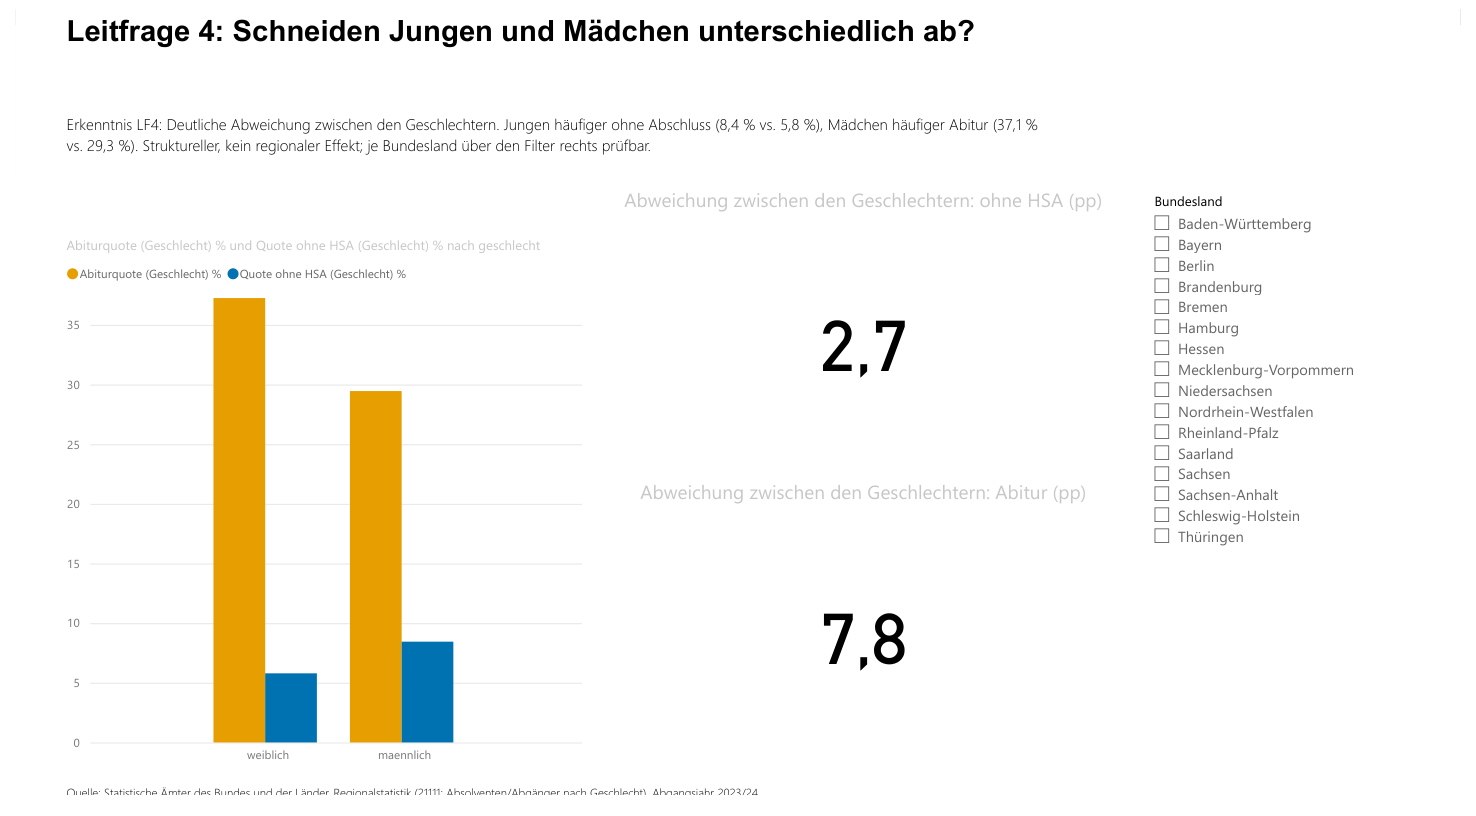
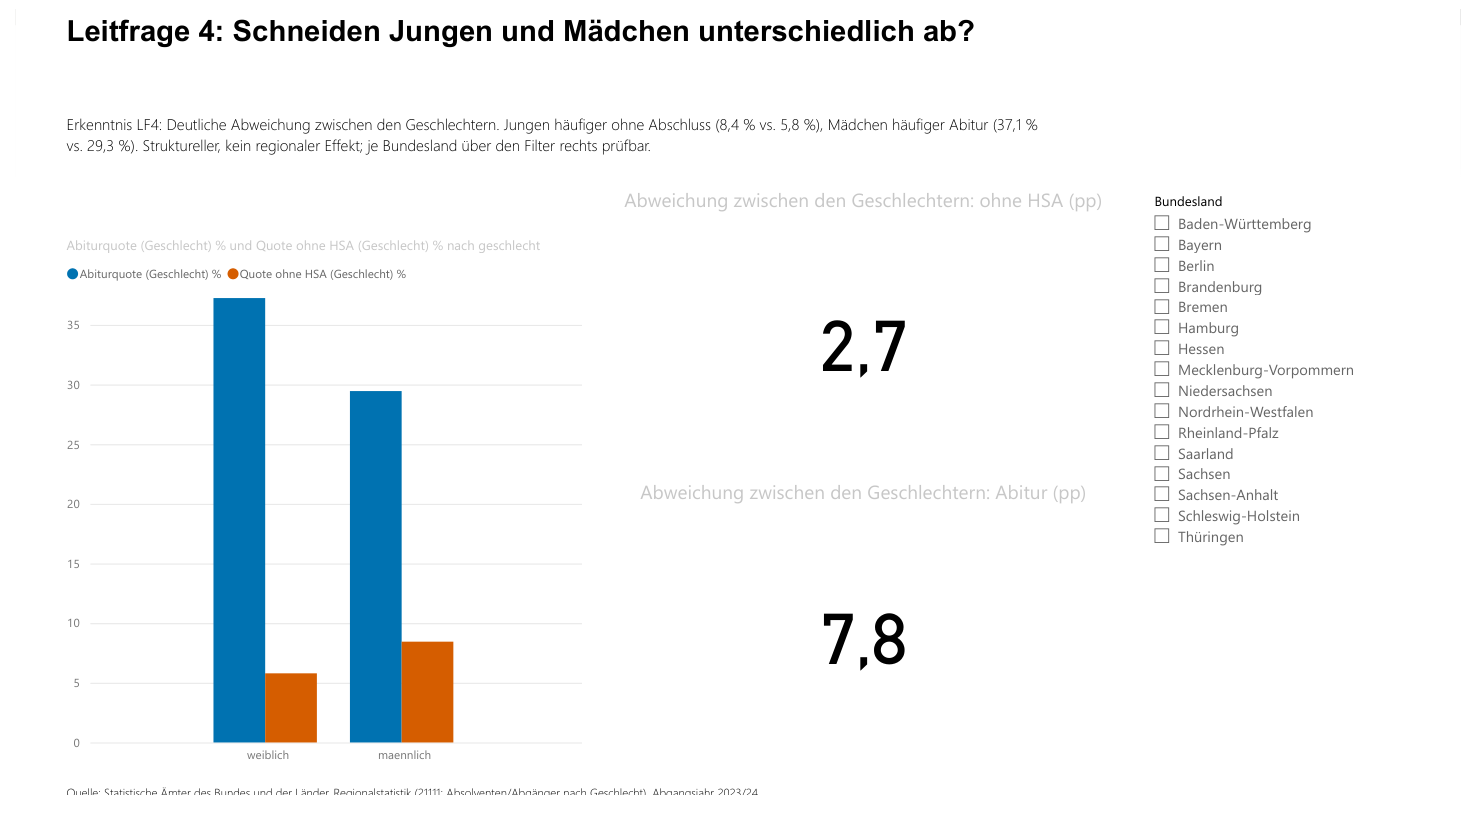
Runde 13: Einheitliches Farbsystem ueber alle Seiten (Okabe-Ito Vermillion/Blau/Grau)
- LF1 Linie: Serie 2022/23 von Orange auf Grau (#8C8C8C), 2023/24 Blau (#0072B2)
  via Measure 'Farbe Schuljahr LF1'; Balken behaelt Sachsen-Anhalt-Vermillion.
- LF4 Saeule: Abiturquote Blau (#0072B2), Quote ohne HSA Vermillion (#D55E00)
  explizit je Measure-Serie statt Theme-Default.
- LF8 Scatter: Stadtstaaten Vermillion (#D55E00), Flaechenlaender Grau (#8C8C8C)
  via scopeId-Selector; Measure 'Farbe Stadtstaat LF8' ergaenzt.
- Theme dataColors umsortiert auf Blau/Vermillion/Grau zuerst; Orange (#E69F00)
  als aktive Diagrammfarbe entfernt.
- Uebergang-Seite behaelt bewusst die sequenzielle 4-Ton-Skala (ordinale Abschluesse).
- verify_all Guard "Farbsystem einheitlich (Runde 13)"; DOCX/PPTX/Bericht-PDF neu.
- 114/114 Tests gruen.

Changed region(s): [[0.1247, 0.3676, 0.3117, 0.9191]]

diff --git a/scripts/verify_all.py b/scripts/verify_all.py
@@ -381,6 +381,10 @@ _lf8sc=open(os.path.join(_lf8dir,"ae0c1c8278c9dd1a3a20","visual.json"),encoding=
 check("LF8-Report: Stadtstaat-Slicer vorhanden + 2 bewusste Jahresfilter (Ausgaben- & Abgaenge-Fakttabelle, Runde 9)",
       os.path.exists(os.path.join(_lf8dir,"b8stadtstaat00000001","visual.json"))
       and "fact_ausgaben_je_schueler" in _lf8sc and "fact_abgaenge" in _lf8sc and _lf8sc.count('"jahr"')>=4)
+# Runde 13: einheitliches Farbsystem im ganzen Bericht - Vermillion (Fokus/Risiko), Blau (primaer/sekundaer), Grau (Kontext); Orange als aktive Diagrammfarbe entfernt
+_lf4col=open(os.path.join(_lf4dir,"d96dbc5aa3afd6b99fd5","visual.json"),encoding="utf-8").read()
+check("Farbsystem einheitlich: LF8 Stadtstaat-Vermillion + LF4 Blau/Vermillion explizit + LF1 ohne Orange (#E69F00), keine Inline-Orange-Diagrammfarbe (Runde 13)",
+      "measure 'Farbe Stadtstaat LF8'" in da and "Farbe Stadtstaat LF8" in _lf8sc and "#0072B2" in _lf4col and "#D55E00" in _lf4col and "#E69F00" not in da)
 # LF9-Faerbung: Schwelle 5,5 muss exakt die Top-10 treffen (Marge 5,57 vs. 5,44 - Drift-Warnung bei Datenaenderung)
 _n_ueber = sum(1 for v in _score.values() if v >= 5.5)
 check("LF9 Top-10-Schwelle 5,5 trifft exakt 10 Kreise (Farbe Risiko LF9)", _n_ueber == 10, f"{_n_ueber} Kreise >= 5,5")